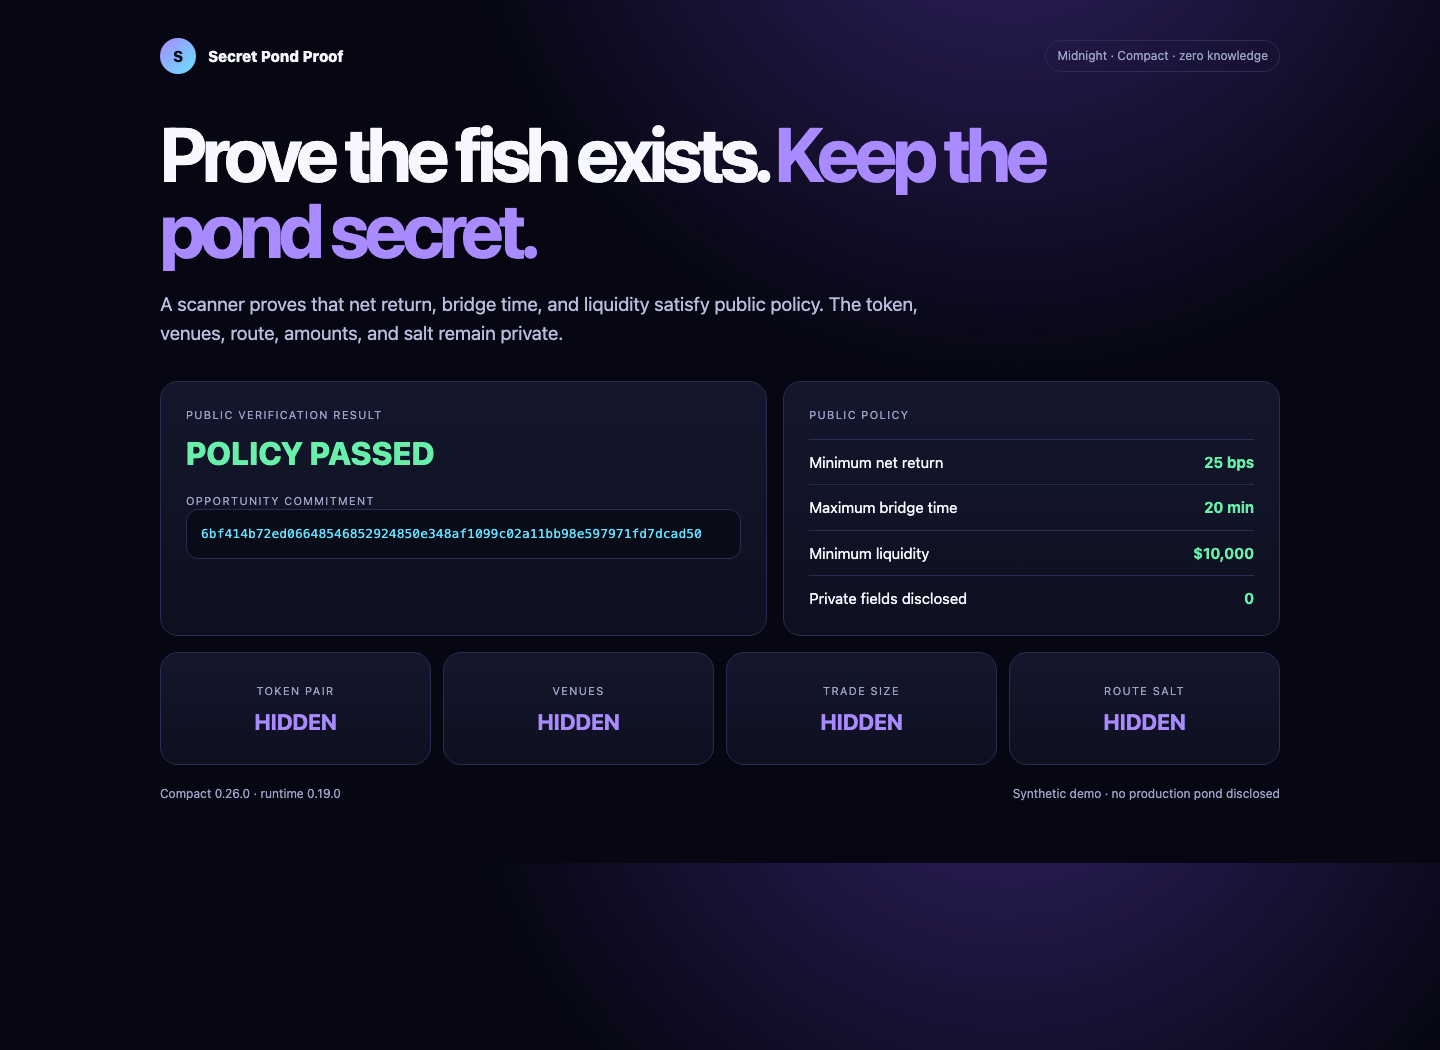
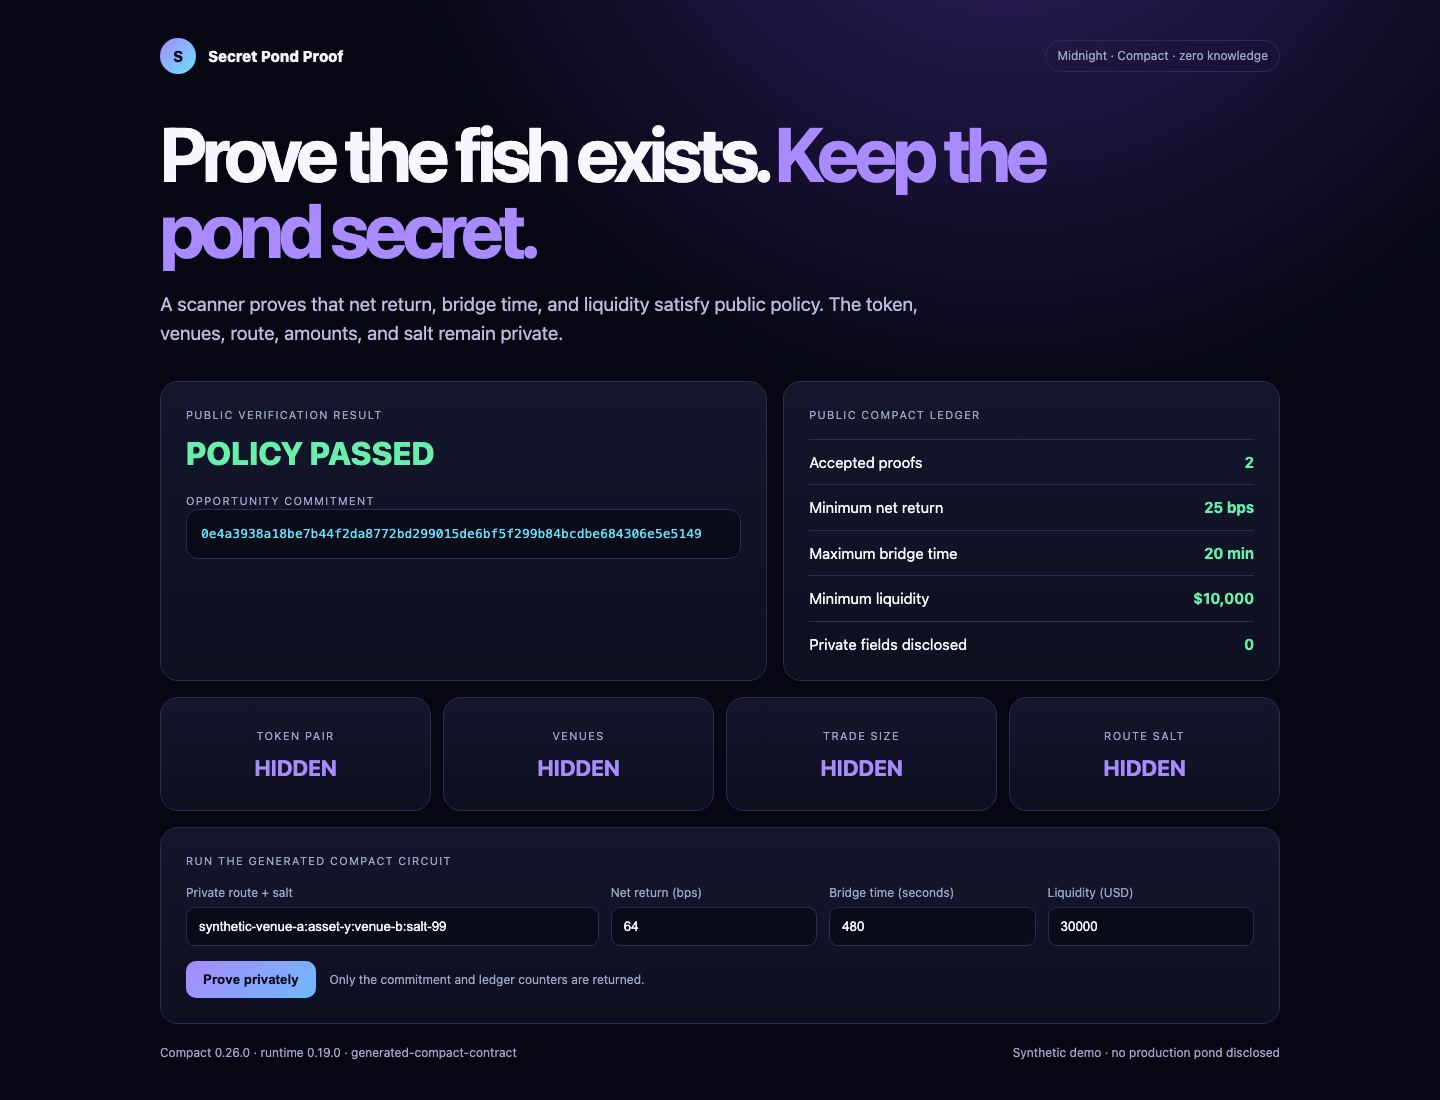
Wire dashboard to generated Compact contract

diff --git a/web/index.html b/web/index.html
@@ -1,4 +1,7 @@
 <!doctype html><html lang="en"><head><meta charset="utf-8"><meta name="viewport" content="width=device-width,initial-scale=1"><title>Secret Pond Proof</title>
 <style>
-:root{color-scheme:dark;--bg:#060713;--panel:#111326;--line:#292d52;--muted:#9da4c7;--text:#f7f8ff;--violet:#a98bff;--cyan:#66e3ff;--green:#68f0aa}*{box-sizing:border-box}body{margin:0;background:radial-gradient(circle at 70% -20%,#332267 0,transparent 38%),var(--bg);color:var(--text);font:15px/1.5 Inter,system-ui,sans-serif}main{width:min(1120px,calc(100% - 44px));margin:auto;padding:38px 0 60px}nav{display:flex;justify-content:space-between;align-items:center;margin-bottom:42px}.brand{font-weight:800;display:flex;gap:12px;align-items:center}.mark{display:grid;place-items:center;width:36px;height:36px;border-radius:50%;background:linear-gradient(135deg,var(--violet),var(--cyan));color:#090a16}.pill{border:1px solid var(--line);border-radius:99px;padding:6px 11px;color:var(--muted);font-size:12px}h1{font-size:clamp(46px,6vw,76px);line-height:1;letter-spacing:-.06em;margin:0;max-width:900px}.accent{color:var(--violet)}.lede{font-size:19px;color:#b7bddb;max-width:800px;margin:22px 0 34px}.grid{display:grid;grid-template-columns:1.1fr .9fr;gap:16px}.panel{background:linear-gradient(180deg,#14172c,#0e1020);border:1px solid var(--line);border-radius:18px;padding:25px}.label{text-transform:uppercase;letter-spacing:.12em;font-size:11px;color:var(--muted)}.status{font-size:32px;color:var(--green);font-weight:800;margin:5px 0 16px}.commit{word-break:break-all;background:#090b19;border:1px solid var(--line);border-radius:12px;padding:14px;color:var(--cyan);font:13px/1.5 ui-monospace,monospace}.rules{display:grid;gap:11px;margin-top:15px}.rule{display:flex;justify-content:space-between;border-top:1px solid var(--line);padding-top:11px}.rule b{color:var(--green)}.private{margin-top:16px;display:grid;grid-template-columns:repeat(4,1fr);gap:12px}.private .panel{text-align:center}.private strong{display:block;font-size:22px;margin-top:6px}.lock{color:var(--violet)}.foot{display:flex;justify-content:space-between;margin-top:20px;color:var(--muted);font-size:12px}@media(max-width:800px){.grid,.private{grid-template-columns:1fr}.foot{display:block}}
-</style></head><body><main><nav><div class="brand"><span class="mark">S</span>Secret Pond Proof</div><span class="pill">Midnight · Compact · zero knowledge</span></nav><h1>Prove the fish exists. <span class="accent">Keep the pond secret.</span></h1><p class="lede">A scanner proves that net return, bridge time, and liquidity satisfy public policy. The token, venues, route, amounts, and salt remain private.</p><section class="grid"><div class="panel"><div class="label">Public verification result</div><div class="status" id="status">Loading proof…</div><div class="label">Opportunity commitment</div><div class="commit" id="commitment">—</div></div><div class="panel"><div class="label">Public policy</div><div class="rules"><div class="rule"><span>Minimum net return</span><b id="net">—</b></div><div class="rule"><span>Maximum bridge time</span><b id="bridge">—</b></div><div class="rule"><span>Minimum liquidity</span><b id="liquidity">—</b></div><div class="rule"><span>Private fields disclosed</span><b id="disclosed">—</b></div></div></div></section><section class="private"><div class="panel"><span class="label">Token pair</span><strong class="lock">HIDDEN</strong></div><div class="panel"><span class="label">Venues</span><strong class="lock">HIDDEN</strong></div><div class="panel"><span class="label">Trade size</span><strong class="lock">HIDDEN</strong></div><div class="panel"><span class="label">Route salt</span><strong class="lock">HIDDEN</strong></div></section><div class="foot"><span id="compiler">Compiled proof circuit</span><span>Synthetic demo · no production pond disclosed</span></div></main><script>fetch('/api/proof').then(r=>r.json()).then(x=>{document.querySelector('#status').textContent=x.accepted?'POLICY PASSED':'REJECTED';document.querySelector('#commitment').textContent=x.commitment;document.querySelector('#net').textContent=x.publicPolicy.minimumNetBps+' bps';document.querySelector('#bridge').textContent=x.publicPolicy.maximumBridgeSeconds/60+' min';document.querySelector('#liquidity').textContent='$'+x.publicPolicy.minimumLiquidityUsd.toLocaleString();document.querySelector('#disclosed').textContent=x.privateFieldsDisclosed.length;document.querySelector('#compiler').textContent=`Compact ${x.compiler.language} · runtime ${x.compiler.runtime}`})</script></body></html>
+:root{color-scheme:dark;--bg:#060713;--panel:#111326;--line:#292d52;--muted:#9da4c7;--text:#f7f8ff;--violet:#a98bff;--cyan:#66e3ff;--green:#68f0aa;--red:#ff7e92}*{box-sizing:border-box}body{margin:0;background:radial-gradient(circle at 70% -20%,#332267 0,transparent 38%),var(--bg);color:var(--text);font:15px/1.5 Inter,system-ui,sans-serif}main{width:min(1120px,calc(100% - 44px));margin:auto;padding:38px 0 60px}nav{display:flex;justify-content:space-between;align-items:center;margin-bottom:42px}.brand{font-weight:800;display:flex;gap:12px;align-items:center}.mark{display:grid;place-items:center;width:36px;height:36px;border-radius:50%;background:linear-gradient(135deg,var(--violet),var(--cyan));color:#090a16}.pill{border:1px solid var(--line);border-radius:99px;padding:6px 11px;color:var(--muted);font-size:12px}h1{font-size:clamp(46px,6vw,76px);line-height:1;letter-spacing:-.06em;margin:0;max-width:900px}.accent{color:var(--violet)}.lede{font-size:19px;color:#b7bddb;max-width:800px;margin:22px 0 34px}.grid{display:grid;grid-template-columns:1.1fr .9fr;gap:16px}.panel{background:linear-gradient(180deg,#14172c,#0e1020);border:1px solid var(--line);border-radius:18px;padding:25px}.label{text-transform:uppercase;letter-spacing:.12em;font-size:11px;color:var(--muted)}.status{font-size:32px;color:var(--green);font-weight:800;margin:5px 0 16px}.status.rejected{color:var(--red)}.commit{word-break:break-all;background:#090b19;border:1px solid var(--line);border-radius:12px;padding:14px;color:var(--cyan);font:13px/1.5 ui-monospace,monospace}.rules{display:grid;gap:11px;margin-top:15px}.rule{display:flex;justify-content:space-between;border-top:1px solid var(--line);padding-top:11px}.rule b{color:var(--green)}.private{margin-top:16px;display:grid;grid-template-columns:repeat(4,1fr);gap:12px}.private .panel{text-align:center}.private strong{display:block;font-size:22px;margin-top:6px}.lock{color:var(--violet)}.runner{margin-top:16px}.form-grid{display:grid;grid-template-columns:2fr repeat(3,1fr);gap:12px;margin:15px 0}label{color:var(--muted);font-size:12px}input{display:block;width:100%;margin-top:5px;padding:11px 12px;background:#090b19;border:1px solid var(--line);border-radius:9px;color:var(--text)}button{background:linear-gradient(135deg,var(--violet),#6db9ff);border:0;border-radius:10px;padding:11px 17px;color:#090a16;font-weight:800;cursor:pointer}button:disabled{opacity:.5;cursor:wait}.runner-row{display:flex;align-items:center;gap:14px}.hint{color:var(--muted);font-size:12px}.foot{display:flex;justify-content:space-between;margin-top:20px;color:var(--muted);font-size:12px}@media(max-width:800px){.grid,.private,.form-grid{grid-template-columns:1fr}.foot{display:block}}
+</style></head><body><main><nav><div class="brand"><span class="mark">S</span>Secret Pond Proof</div><span class="pill">Midnight · Compact · zero knowledge</span></nav><h1>Prove the fish exists. <span class="accent">Keep the pond secret.</span></h1><p class="lede">A scanner proves that net return, bridge time, and liquidity satisfy public policy. The token, venues, route, amounts, and salt remain private.</p><section class="grid"><div class="panel"><div class="label">Public verification result</div><div class="status" id="status">Loading proof…</div><div class="label">Opportunity commitment</div><div class="commit" id="commitment">—</div></div><div class="panel"><div class="label">Public Compact ledger</div><div class="rules"><div class="rule"><span>Accepted proofs</span><b id="count">—</b></div><div class="rule"><span>Minimum net return</span><b id="net">—</b></div><div class="rule"><span>Maximum bridge time</span><b id="bridge">—</b></div><div class="rule"><span>Minimum liquidity</span><b id="liquidity">—</b></div><div class="rule"><span>Private fields disclosed</span><b id="disclosed">—</b></div></div></div></section><section class="private"><div class="panel"><span class="label">Token pair</span><strong class="lock">HIDDEN</strong></div><div class="panel"><span class="label">Venues</span><strong class="lock">HIDDEN</strong></div><div class="panel"><span class="label">Trade size</span><strong class="lock">HIDDEN</strong></div><div class="panel"><span class="label">Route salt</span><strong class="lock">HIDDEN</strong></div></section><section class="panel runner"><div class="label">Run the generated Compact circuit</div><div class="form-grid"><label>Private route + salt<input id="route" value="synthetic-venue-a:asset-y:venue-b:salt-99"></label><label>Net return (bps)<input id="netInput" type="number" value="64"></label><label>Bridge time (seconds)<input id="bridgeInput" type="number" value="480"></label><label>Liquidity (USD)<input id="liquidityInput" type="number" value="30000"></label></div><div class="runner-row"><button id="prove">Prove privately</button><span class="hint" id="message">Only the commitment and ledger counters are returned.</span></div></section><div class="foot"><span id="compiler">Compiled proof circuit</span><span>Synthetic demo · no production pond disclosed</span></div></main><script>
+const $=id=>document.querySelector('#'+id);function render(x){$('status').textContent=x.accepted?'POLICY PASSED':'REJECTED';$('status').classList.toggle('rejected',!x.accepted);if(x.commitment)$('commitment').textContent=x.commitment;if(x.acceptedProofs!==undefined)$('count').textContent=x.acceptedProofs;if(x.publicPolicy){$('net').textContent=x.publicPolicy.minimumNetBps+' bps';$('bridge').textContent=x.publicPolicy.maximumBridgeSeconds/60+' min';$('liquidity').textContent='$'+x.publicPolicy.minimumLiquidityUsd.toLocaleString()}$('disclosed').textContent=x.privateFieldsDisclosed?.length??0;if(x.compiler)$('compiler').textContent=`Compact ${x.compiler.language} · runtime ${x.compiler.runtime} · ${x.execution.engine}`}
+fetch('/api/proof').then(r=>r.json()).then(render);$('prove').onclick=async()=>{$('prove').disabled=true;$('message').textContent='Executing proveOpportunity…';const response=await fetch('/api/proof',{method:'POST',headers:{'content-type':'application/json'},body:JSON.stringify({secretRoute:$('route').value,netBps:$('netInput').value,bridgeSeconds:$('bridgeInput').value,liquidityUsd:$('liquidityInput').value})});const result=await response.json();render(result);$('message').textContent=response.ok?'Compact circuit accepted the private witnesses.':result.error;$('prove').disabled=false};
+</script></body></html>

diff --git a/src/compact-session.js b/src/compact-session.js
@@ -1,0 +1,86 @@
+import crypto from 'node:crypto';
+import {
+  Contract,
+  ledger,
+} from '../contract/src/managed/contract/index.js';
+import {
+  createCircuitContext,
+  createConstructorContext,
+  sampleContractAddress,
+} from '@midnight-ntwrk/compact-runtime';
+
+const UINT64_MAX = 18_446_744_073_709_551_615n;
+
+function uint64(value, name) {
+  const parsed = BigInt(value);
+  if (parsed < 0n || parsed > UINT64_MAX) throw new RangeError(`${name} must fit Uint<64>`);
+  return parsed;
+}
+
+function privateState(input) {
+  if (!input.secretRoute || typeof input.secretRoute !== 'string') {
+    throw new TypeError('secretRoute is required');
+  }
+  return {
+    routeHash: new Uint8Array(crypto.createHash('sha256').update(input.secretRoute, 'utf8').digest()),
+    netBps: uint64(input.netBps, 'netBps'),
+    bridgeSeconds: uint64(input.bridgeSeconds, 'bridgeSeconds'),
+    liquidityUsd: uint64(input.liquidityUsd, 'liquidityUsd'),
+  };
+}
+
+const witnesses = {
+  privateRouteHash: ({ privateState: state }) => [state, state.routeHash],
+  privateNetBps: ({ privateState: state }) => [state, state.netBps],
+  privateBridgeSeconds: ({ privateState: state }) => [state, state.bridgeSeconds],
+  privateLiquidityUsd: ({ privateState: state }) => [state, state.liquidityUsd],
+};
+
+export class CompactSession {
+  static async create() {
+    const session = new CompactSession();
+    session.contract = new Contract(witnesses);
+    session.address = sampleContractAddress();
+    const initial = await session.contract.initialState(createConstructorContext(
+      privateState({ secretRoute: 'constructor-only', netBps: 0, bridgeSeconds: 0, liquidityUsd: 0 }),
+      '00'.repeat(32),
+    ));
+    session.contractState = initial.currentContractState;
+    session.zswapState = initial.currentZswapLocalState;
+    return session;
+  }
+
+  async prove(input) {
+    const state = privateState(input);
+    const context = createCircuitContext(
+      'proveOpportunity',
+      this.address,
+      this.zswapState,
+      this.contractState,
+      state,
+    );
+    const result = await this.contract.impureCircuits.proveOpportunity(context);
+    this.contractState = result.context.callContext.currentQueryContext.state;
+    this.zswapState = result.context.callContext.currentZswapLocalState;
+    return this.publicState(result.result);
+  }
+
+  publicState(commitment) {
+    const current = ledger(this.contractState);
+    return {
+      accepted: current.acceptedProofs > 0n,
+      acceptedProofs: Number(current.acceptedProofs),
+      commitment: Buffer.from(commitment ?? current.lastCommitment).toString('hex'),
+      publicPolicy: {
+        minimumNetBps: Number(current.minNetBps),
+        maximumBridgeSeconds: Number(current.maxBridgeSeconds),
+        minimumLiquidityUsd: Number(current.minLiquidityUsd),
+      },
+      privateFieldsDisclosed: [],
+      execution: {
+        engine: 'generated-compact-contract',
+        circuit: 'proveOpportunity',
+      },
+    };
+  }
+}

diff --git a/src/server.js b/src/server.js
@@ -2,26 +2,57 @@ import http from 'node:http';
 import fs from 'node:fs';
 import path from 'node:path';
 import { fileURLToPath } from 'node:url';
-import { evaluatePrivateOpportunity } from './proof.js';
+import { CompactSession } from './compact-session.js';
 
 const root = path.resolve(path.dirname(fileURLToPath(import.meta.url)), '..');
 const page = fs.readFileSync(path.join(root, 'web/index.html'));
 const port = Number(process.env.PORT || 4190);
-const proof = evaluatePrivateOpportunity({
+const session = await CompactSession.create();
+let latestProof = await session.prove({
   secretRoute: 'synthetic-origin:asset-x>bridge-y>destination-z:salt-42',
   netBps: 87,
   bridgeSeconds: 540,
   liquidityUsd: 48_000,
 });
 
-http.createServer((request, response) => {
-  if (request.url === '/api/proof') {
-    response.writeHead(200, { 'Content-Type': 'application/json', 'Cache-Control': 'no-store' });
-    response.end(JSON.stringify({
-      ...proof,
+function sendJson(response, status, body) {
+  response.writeHead(status, { 'Content-Type': 'application/json', 'Cache-Control': 'no-store' });
+  response.end(JSON.stringify(body));
+}
+
+async function readJson(request) {
+  let raw = '';
+  for await (const chunk of request) {
+    raw += chunk;
+    if (raw.length > 16_384) throw new Error('Request is too large');
+  }
+  return JSON.parse(raw || '{}');
+}
+
+http.createServer(async (request, response) => {
+  if (request.method === 'GET' && request.url === '/api/proof') {
+    sendJson(response, 200, {
+      ...latestProof,
       compiler: { toolchain: '0.34.0', language: '0.26.0', runtime: '0.19.0' },
       demoData: 'synthetic',
-    }));
+    });
+    return;
+  }
+  if (request.method === 'POST' && request.url === '/api/proof') {
+    try {
+      latestProof = await session.prove(await readJson(request));
+      sendJson(response, 200, {
+        ...latestProof,
+        compiler: { toolchain: '0.34.0', language: '0.26.0', runtime: '0.19.0' },
+        demoData: 'synthetic',
+      });
+    } catch (error) {
+      sendJson(response, 422, {
+        accepted: false,
+        error: error instanceof Error ? error.message : 'Circuit rejected the opportunity',
+        privateFieldsDisclosed: [],
+      });
+    }
     return;
   }
   if (request.url === '/' || request.url === '/index.html') {

diff --git a/test/compact-session.test.js b/test/compact-session.test.js
@@ -1,0 +1,28 @@
+import test from 'node:test';
+import assert from 'node:assert/strict';
+import { CompactSession } from '../src/compact-session.js';
+
+const valid = {
+  secretRoute: 'private-route:one',
+  netBps: 80,
+  bridgeSeconds: 600,
+  liquidityUsd: 25_000,
+};
+
+test('session executes the generated Compact circuit and persists public ledger state', async () => {
+  const session = await CompactSession.create();
+  const first = await session.prove(valid);
+  const second = await session.prove({ ...valid, secretRoute: 'private-route:two' });
+  assert.equal(first.execution.engine, 'generated-compact-contract');
+  assert.equal(first.acceptedProofs, 1);
+  assert.equal(second.acceptedProofs, 2);
+  assert.notEqual(first.commitment, second.commitment);
+  assert.deepEqual(second.privateFieldsDisclosed, []);
+});
+
+test('session rejects private witnesses that fail Compact policy without advancing the ledger', async () => {
+  const session = await CompactSession.create();
+  await assert.rejects(session.prove({ ...valid, netBps: 24 }), /Net return is below policy/);
+  const accepted = await session.prove(valid);
+  assert.equal(accepted.acceptedProofs, 1);
+});

diff --git a/DEMO-SCRIPT.md b/DEMO-SCRIPT.md
@@ -1,0 +1,44 @@
+# Secret Pond Proof — demo script
+
+Target length: 2 minutes 30 seconds.
+
+## 0:00–0:20 — Problem
+
+“A trading team needs to prove that it follows profitability, speed, and liquidity rules. Publishing the token, venues, size, or route would reveal the opportunity and destroy the edge. Secret Pond Proof resolves that conflict with Midnight.”
+
+Show the dashboard headline and the four `HIDDEN` cards.
+
+## 0:20–0:50 — Compact contract
+
+Open `contract/src/secret-pond.compact` and point to:
+
+- the four witness functions that supply private data;
+- the three public policy thresholds;
+- the assertions in `proveOpportunity`;
+- the disclosed commitment and persistent accepted-proof counter.
+
+“The private route facts enter as witnesses. The circuit enforces all three policy checks. Only a binding commitment and proof counter become public ledger state.”
+
+## 0:50–1:25 — Accepted proof
+
+Open the dashboard. Keep the valid synthetic values and click **Prove privately**.
+
+“This button executes the generated Compact `proveOpportunity` circuit. The proof count advances and the commitment changes, while the public response discloses zero private fields.”
+
+Point to `generated-compact-contract` in the footer and the accepted-proof counter.
+
+## 1:25–1:50 — Circuit rejection
+
+Change net return from `64` to `24` and click **Prove privately**.
+
+“Twenty-four basis points is below the public minimum. The Compact assertion rejects it, and the accepted-proof counter does not advance.”
+
+## 1:50–2:15 — Verification evidence
+
+Run `npm run check` and show all nine tests passing.
+
+“The tests execute the generated state machine, cover every policy rejection path, verify persistent ledger updates, bind every private fact into the commitment, and confirm that no route text appears in public output.”
+
+## 2:15–2:30 — Close
+
+“Secret Pond Proof lets an operator prove that the fish exists without revealing the pond. The same pattern can support private compliance, treasury execution, auctions, and any policy where evidence matters but the underlying data must remain protected.”

diff --git a/REGISTRATION.md b/REGISTRATION.md
@@ -1,0 +1,31 @@
+# Registration record
+
+Luma registration for **Secret Pond Proof** was submitted successfully on September 19, 2026. Luma returned **“You’re In.”**
+
+## Entrant
+
+- Participation type: Individual
+- Team name: Secret Pond Proof
+- Team size: 1
+- Country of residence: Latvia
+- GitHub: `daveaire`
+- X: `@aerialbydavid`
+- Discord: `watchair`
+- Blockchain experience: Project experience
+- ZK familiarity: Experimenting with it
+- Areas of focus: Smart contracts; zero-knowledge proofs/circuits; front-end development; back-end/infrastructure; product design/UX
+- Newsletter: Not subscribed
+
+Personal contact details are intentionally omitted from the repository. The event organizer has them in the submitted registration.
+
+## Project answer submitted
+
+I am building Secret Pond Proof, a Midnight privacy DApp that proves a trading opportunity satisfies public profitability, bridge-time, and liquidity thresholds without revealing the token pair, venues, position size, route, or salt. The Compact circuit accepts private witnesses, enforces the policy in zero knowledge, and publishes only a persistent commitment and proof counter. This solves a real conflict between auditability and protecting a time-sensitive trading edge.
+
+## Remaining external gates
+
+- Join the Midnight Discord `kr-chat` channel.
+- Register or sign in on the Rise In program page and review its separate consents.
+- Publish the repository and deployment.
+- Record and publish the demo video.
+- Submit the final project by September 28, 2026 at 00:00 KST.

diff --git a/SUBMISSION.md b/SUBMISSION.md
@@ -22,8 +22,8 @@ Only a persistent commitment and accepted-proof counter enter public ledger stat
 
 - The contract compiles with Compact `0.34.0` / language `0.26.0`.
 - Generated proving and verification keys are included.
-- Seven tests execute the generated Compact state machine and prove valid acceptance, all three circuit rejection paths, commitment binding, and absence of route text in public output.
-- The dashboard shows the public proof surface and explicitly marks every hidden field.
+- Nine tests execute the generated Compact state machine and prove valid acceptance, all three circuit rejection paths, persistent ledger updates, commitment binding, and absence of route text in public output.
+- The interactive dashboard calls `proveOpportunity` on the generated contract, displays the resulting public ledger, and explicitly marks every hidden field.
 
 ## Demo
 

diff --git a/README.md b/README.md
@@ -14,7 +14,9 @@ Ordinary arbitrage dashboards create a conflict: evidence builds trust, but publ
 - Compact language `0.26.0`
 - Compact runtime `0.19.0`
 - Generated prover/verifier keys and ZKIR are under `contract/src/managed`
-- Seven tests execute both the generated Compact state machine and the public-output helper, including every policy rejection path
+- Nine tests execute the generated Compact state machine, persistent session ledger, and public-output helper, including every policy rejection path
+
+The dashboard calls `proveOpportunity` on the generated Compact contract. Try a valid private route, then set net return below 25 bps to watch the circuit reject it without publishing the route.
 
 ```sh
 npm install
